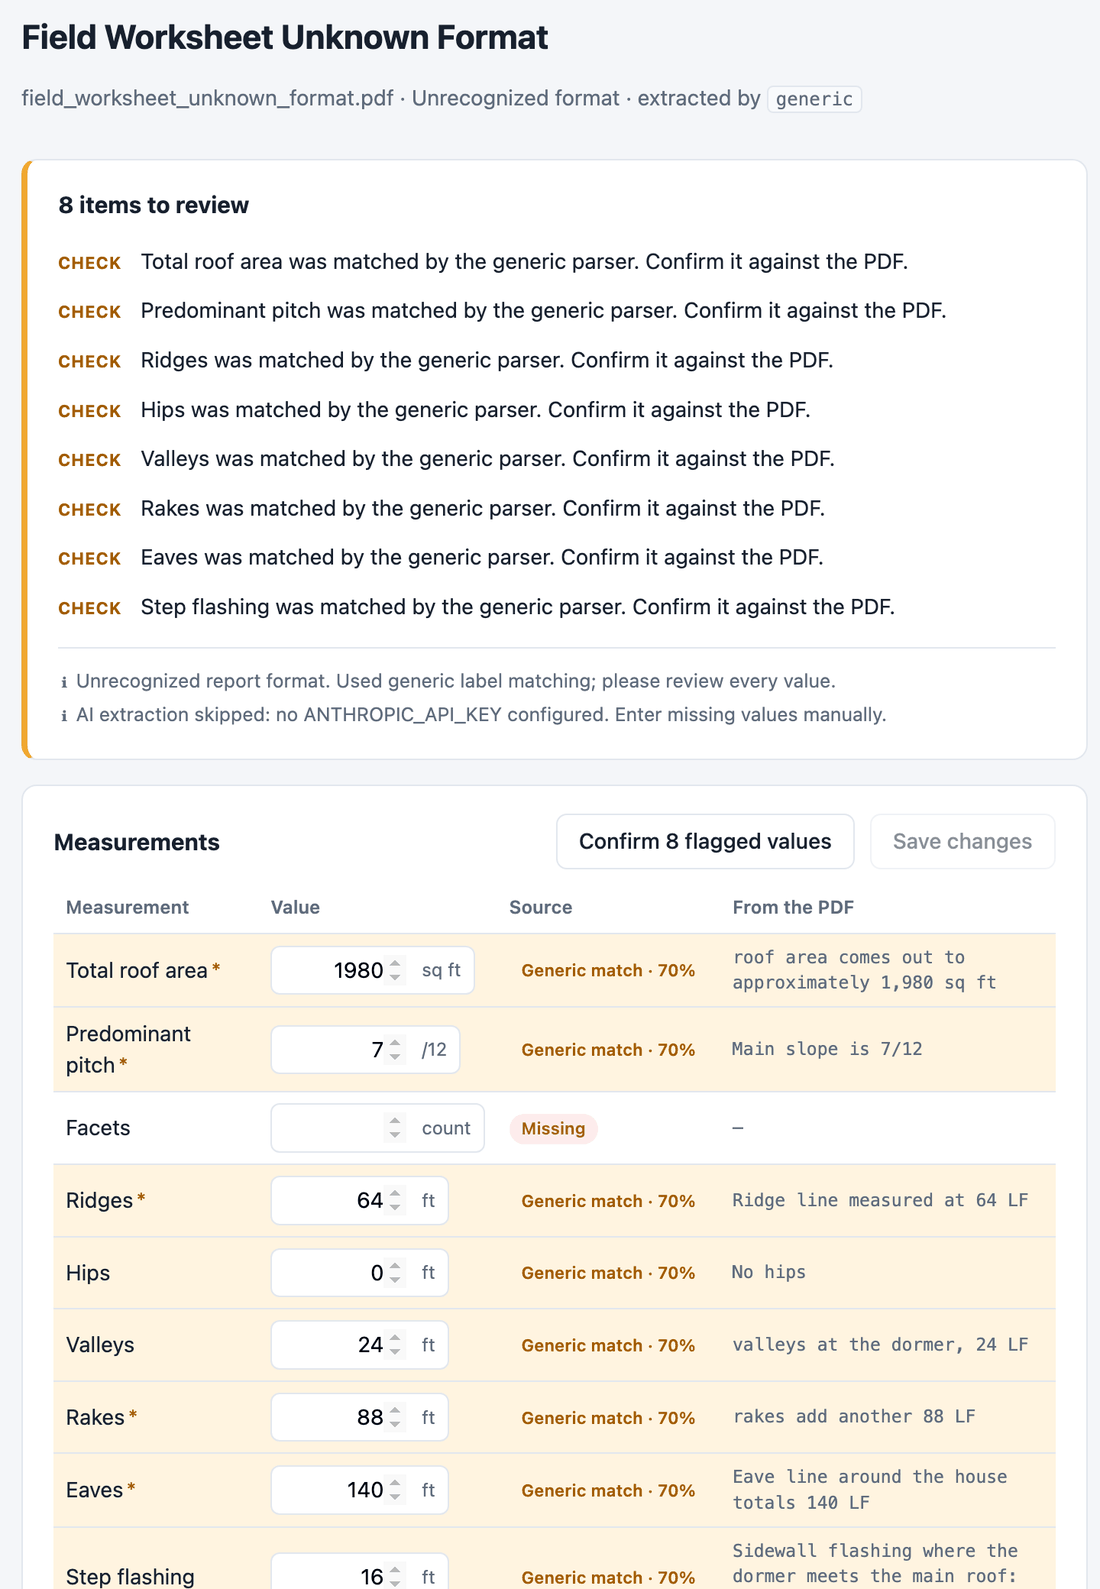
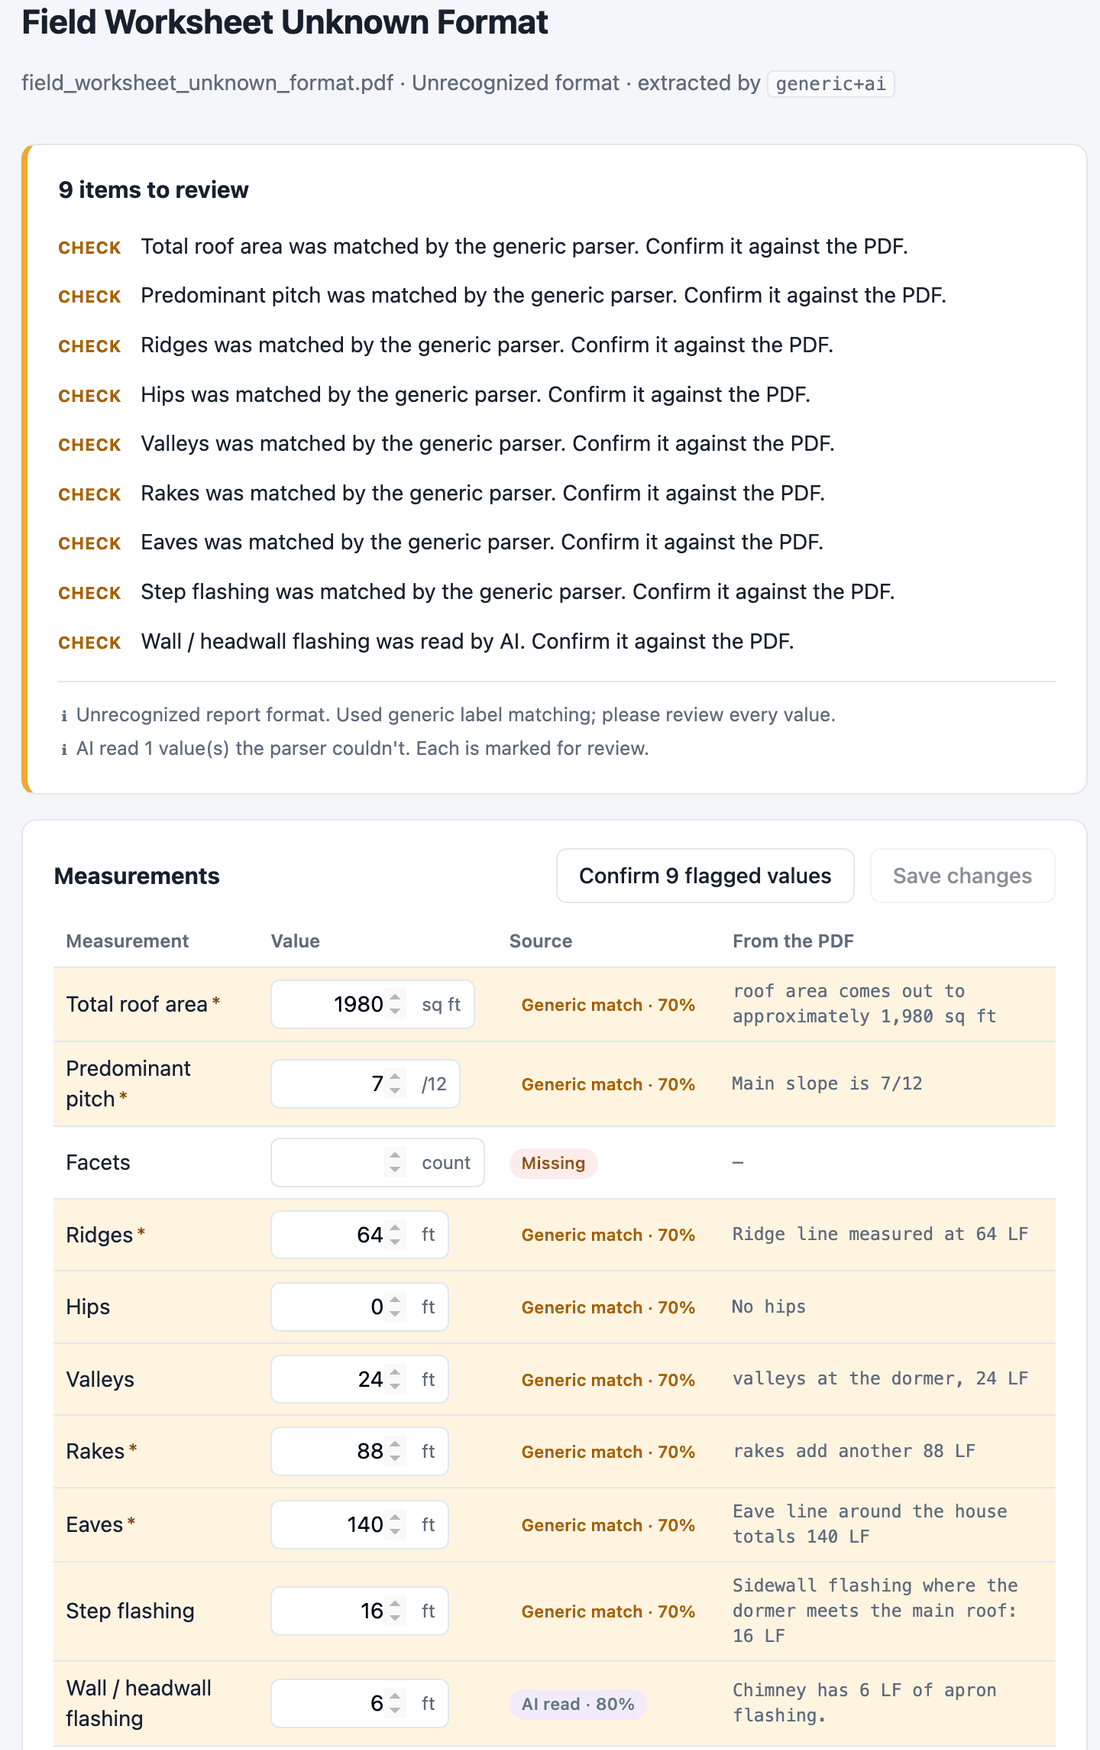
docs: AI setup via backend/.env and screenshot with AI-read values
README explains the .env key, the "Use AI" upload checkbox and the live
check. The unknown-format review shot was taken without a key; retaken
so it shows an AI-read value with its quote. Plans 01 and 04 note it.

diff --git a/README.md b/README.md
@@ -18,7 +18,7 @@ A working prototype of an estimating platform for roofing contractors: Python (F
 |---|---|
 | ![Upload page with sample reports and recent jobs](docs/screenshots/home.png) | ![Review page: missing eaves and pitch areas that don't add up block the estimate](docs/screenshots/review-blocked.png) |
 | **Unknown formats are flagged for review** | **Formulas and prices live in the price book** |
-| ![Review page: values from an unrecognized worksheet, each shown with its source text and confidence](docs/screenshots/review-unknown-format.png) | ![Price book with quantity formulas, coverage, waste and prices](docs/screenshots/pricebook.png) |
+| ![Review page: an unrecognized worksheet read by the generic parser and Claude, each value shown with its source text and confidence](docs/screenshots/review-unknown-format.png) | ![Price book with quantity formulas, coverage, waste and prices](docs/screenshots/pricebook.png) |
 
 ## What it does
 
@@ -47,17 +47,22 @@ npm install
 
 **Development (hot reload):** `./dev.sh` → open http://localhost:5173
 
-**Single-process demo:** `cd frontend && npm run build`, then `cd ../backend && .venv/bin/uvicorn app.main:app --port 8010` → open http://localhost:8010
+**Single-process demo:** `cd frontend && npm run build`, then `cd ../backend && .venv/bin/uvicorn app.main:app --port 8010` (add `--env-file .env` if you created one) → open http://localhost:8010
 
 **Tests:** `cd backend && .venv/bin/python -m pytest`
 
 ### Optional: AI extraction
 
 ```bash
+# in backend/.env (gitignored; ./dev.sh loads it):
+ANTHROPIC_API_KEY=sk-ant-...
+# or in your shell:
 export ANTHROPIC_API_KEY=sk-ant-...
 ```
 
-With a key set, reports in unknown formats are also read by Claude (`claude-opus-5-5` by default, override with `EXTRACTION_MODEL`). Without one, the app still works: unknown formats use the generic parser and the reviewer fills any gaps. Set `AI_EXTRACTION=off` to disable it explicitly.
+With a key set, reports in unknown formats are also read by Claude (`claude-opus-5-5` by default, override with `EXTRACTION_MODEL`), as long as "Use AI" is checked on upload. Without one, the app still works: unknown formats use the generic parser and the reviewer fills any gaps. Set `AI_EXTRACTION=off` to disable it explicitly.
+
+To check the AI path against the real API (one API call): `cd backend && .venv/bin/python -m scripts.check_ai_live`. It reads the unknown-format sample and checks that AI fills only missing fields, quotes its source, flags numbers it can't find in the PDF text, and that the demo samples never call AI.
 
 ### Database
 

diff --git a/docs/plans/04-readme-screenshots.md b/docs/plans/04-readme-screenshots.md
@@ -15,7 +15,7 @@ Make the public repo read well as a portfolio piece.
 - `docs/screenshots/estimate.png`: hero; estimate with summary and recommended price (Demo Provider B sample).
 - `docs/screenshots/home.png`: upload, samples, recent jobs.
 - `docs/screenshots/review-blocked.png`: missing eaves and pitch areas that don't add up block the estimate.
-- `docs/screenshots/review-unknown-format.png`: generic-parser values flagged for review, with source text.
+- `docs/screenshots/review-unknown-format.png`: generic-parser values flagged for review, with source text. Retaken in plan 07 with an API key, so it also shows an AI-read value; retake it with the key set.
 - `docs/screenshots/pricebook.png`: formulas, coverage, waste, prices.
 
 To retake: delete `backend/data/estimateai.db`, start on 8010, load the samples (worksheet, oak, maple, demo B, in that order), create estimates for reports 3 and 4, and capture `#/`, `#/report/2`, `#/report/1`, `#/estimate/2`, `#/pricebook`.

diff --git a/docs/plans/01-prototype.md b/docs/plans/01-prototype.md
@@ -47,5 +47,5 @@ Out of scope: CRM integration, production handoff, multi-company accounts, custo
 pytest, `tsc -b` and `npm run build` pass. Each page was checked in headless Chrome screenshots at desktop and 500px width. The AI path is tested only with the fake client; no live API key was available.
 
 ## Follow-ups
-- Live test of AI extraction with a real `ANTHROPIC_API_KEY`.
+- Live test of AI extraction with a real `ANTHROPIC_API_KEY`. Done in plan 07.
 - Alembic migrations before the schema changes again.
